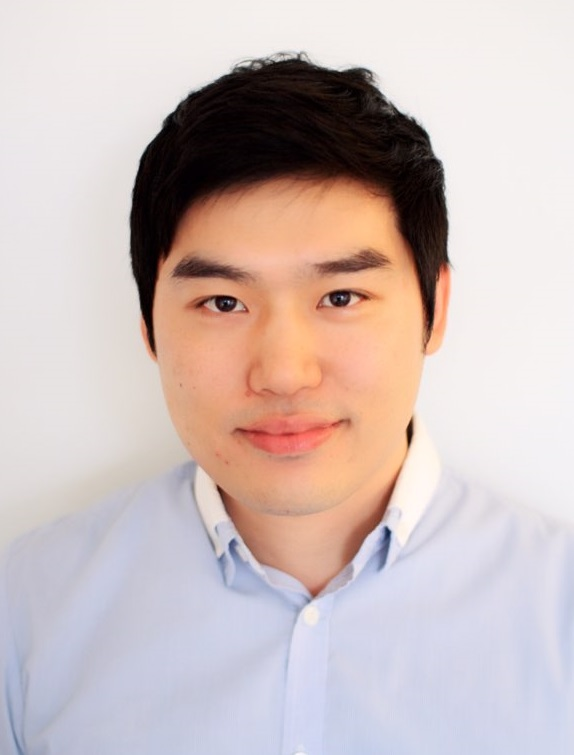
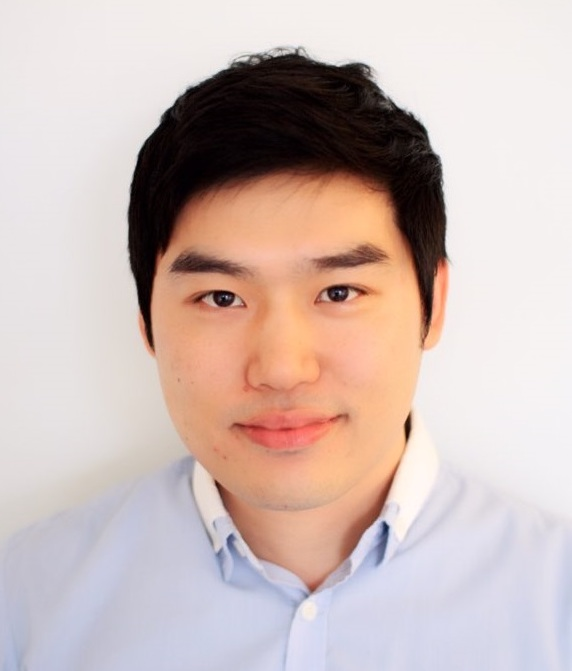
update

diff --git a/authors/admin/index.html b/authors/admin/index.html
@@ -463,7 +463,7 @@
 
       
       
-      <img class="portrait" src="/authors/admin/avatar_hu998af1e5b3178532eb8c5f6fac1fe9a9_58064_250x250_fill_q90_lanczos_center.jpg" itemprop="image" alt="Avatar">
+      <img class="portrait" src="/authors/admin/avatar_hud4efad608d3bfc2b9fe9452c852e5dee_52367_250x250_fill_q90_lanczos_center.jpg" itemprop="image" alt="Avatar">
       
 
       <div class="portrait-title">

diff --git a/index.html b/index.html
@@ -505,7 +505,7 @@
 
       
       
-      <img class="portrait" src="/authors/admin/avatar_hu998af1e5b3178532eb8c5f6fac1fe9a9_58064_250x250_fill_q90_lanczos_center.jpg" itemprop="image" alt="Avatar">
+      <img class="portrait" src="/authors/admin/avatar_hud4efad608d3bfc2b9fe9452c852e5dee_52367_250x250_fill_q90_lanczos_center.jpg" itemprop="image" alt="Avatar">
       
 
       <div class="portrait-title">
